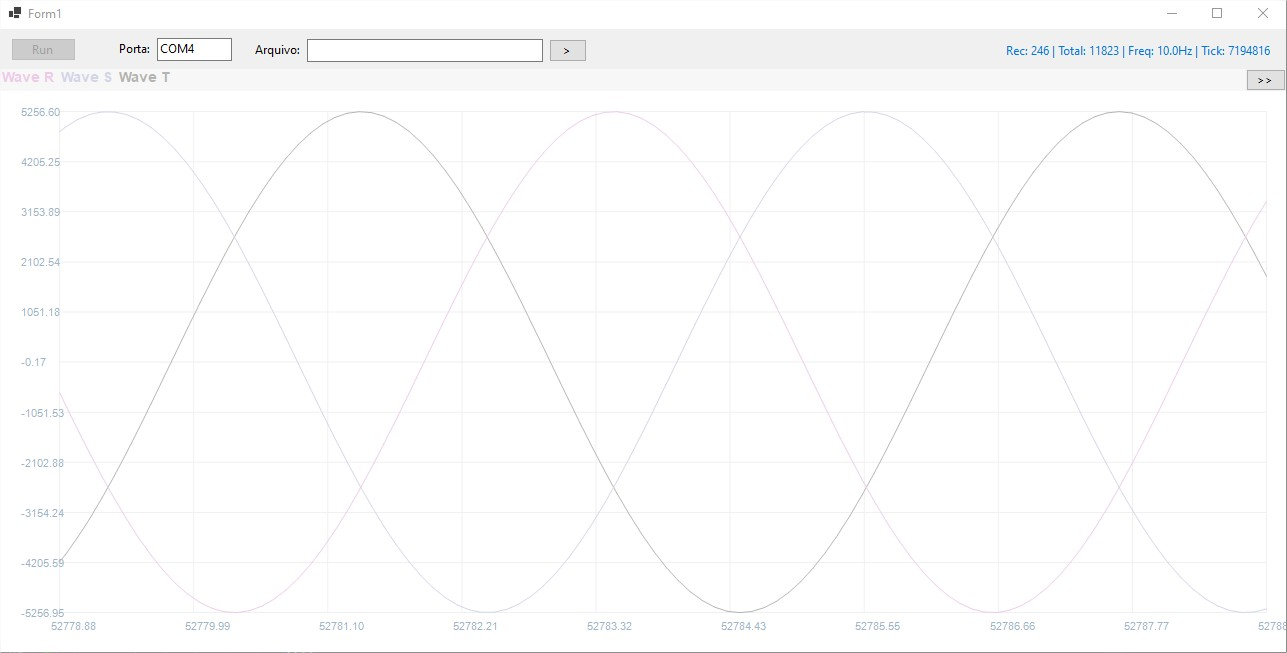
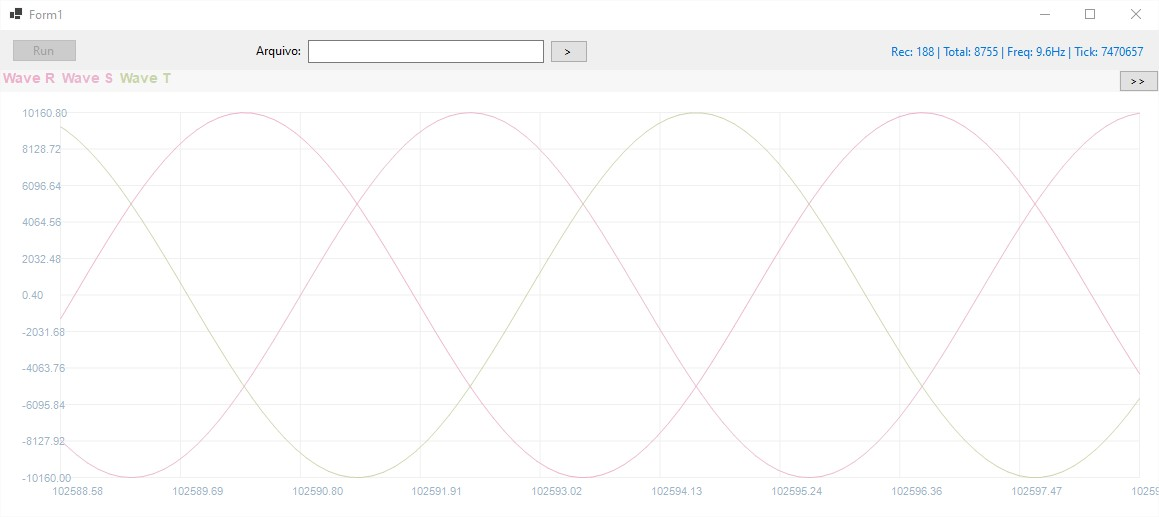
no message

diff --git a/MotorControllerViewer/MotorControllerViewer/WinFormsApp1/Form1.Designer.cs b/MotorControllerViewer/MotorControllerViewer/WinFormsApp1/Form1.Designer.cs
@@ -37,8 +37,6 @@
             label3 = new Label();
             ArquivoButton = new Button();
             label2 = new Label();
-            label1 = new Label();
-            textBox2 = new TextBox();
             FileTextBox = new TextBox();
             button1 = new Button();
             tableLayoutPanel1.SuspendLayout();
@@ -117,8 +115,6 @@
             panel1.Controls.Add(label3);
             panel1.Controls.Add(ArquivoButton);
             panel1.Controls.Add(label2);
-            panel1.Controls.Add(label1);
-            panel1.Controls.Add(textBox2);
             panel1.Controls.Add(FileTextBox);
             panel1.Controls.Add(button1);
             panel1.Dock = DockStyle.Fill;
@@ -156,23 +152,6 @@
             label2.Size = new Size(52, 15);
             label2.TabIndex = 4;
             label2.Text = "Arquivo:";
-            // 
-            // label1
-            // 
-            label1.AutoSize = true;
-            label1.Location = new Point(117, 12);
-            label1.Name = "label1";
-            label1.Size = new Size(38, 15);
-            label1.TabIndex = 3;
-            label1.Text = "Porta:";
-            // 
-            // textBox2
-            // 
-            textBox2.Location = new Point(158, 9);
-            textBox2.Name = "textBox2";
-            textBox2.Size = new Size(75, 23);
-            textBox2.TabIndex = 2;
-            textBox2.Text = "COM4";
             // 
             // FileTextBox
             // 

diff --git a/MotorControllerViewer/MotorControllerViewer/WinFormsApp1/Form1.cs b/MotorControllerViewer/MotorControllerViewer/WinFormsApp1/Form1.cs
@@ -60,7 +60,7 @@ namespace WinFormsApp1
                 {
                     button1.Enabled = false;
 
-                    Serial = new SerialPort(textBox2.Text, 9600, Parity.None, 8, StopBits.One);
+                    Serial = new SerialPort("COM4", 9600, Parity.None, 8, StopBits.One);
 
                     Serial.DataReceived += (object sender, SerialDataReceivedEventArgs e) =>
                     {
